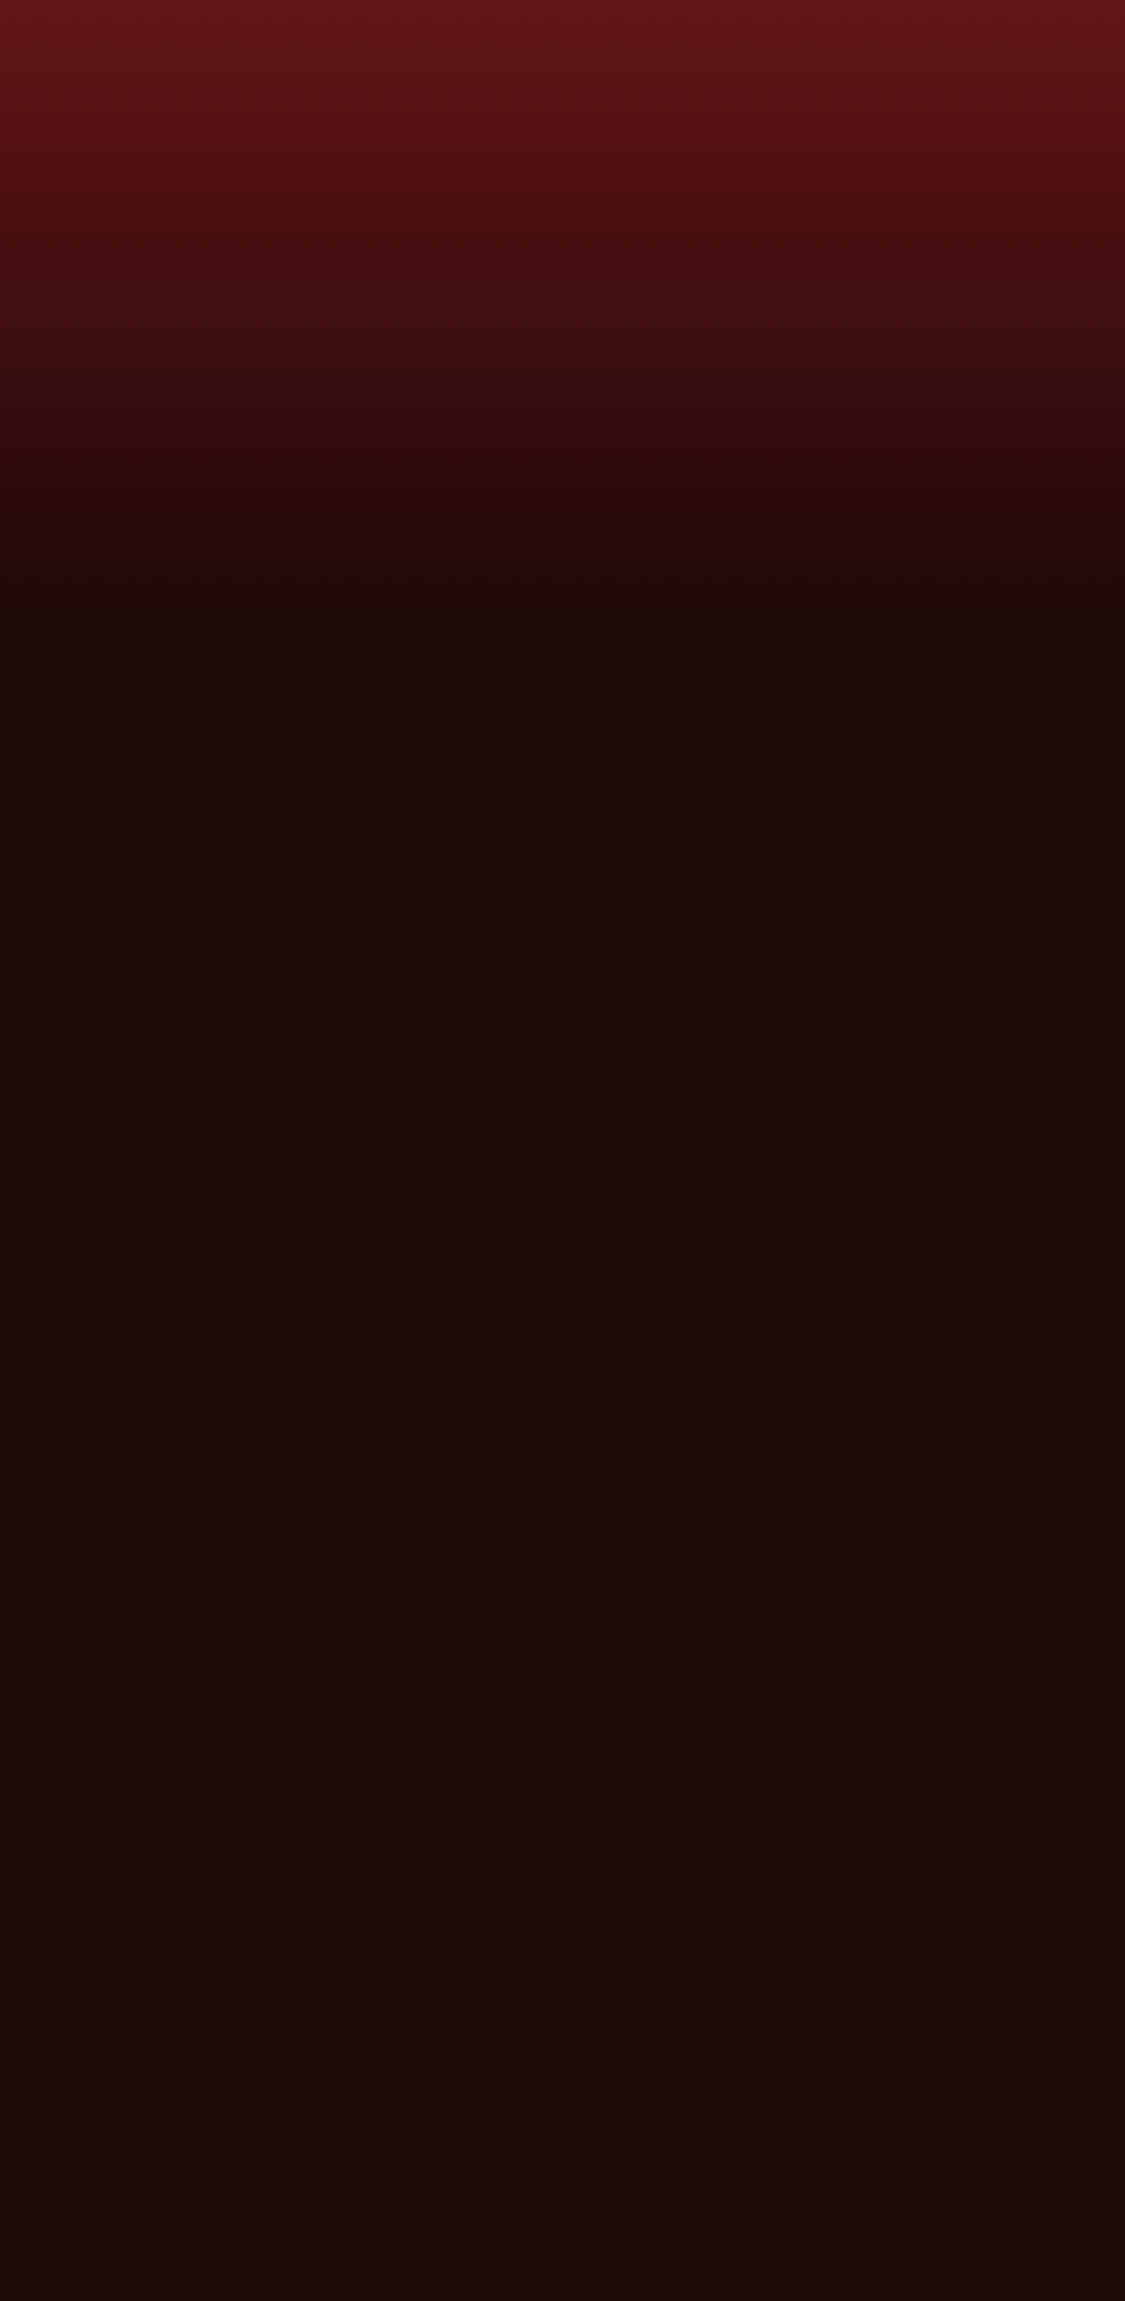
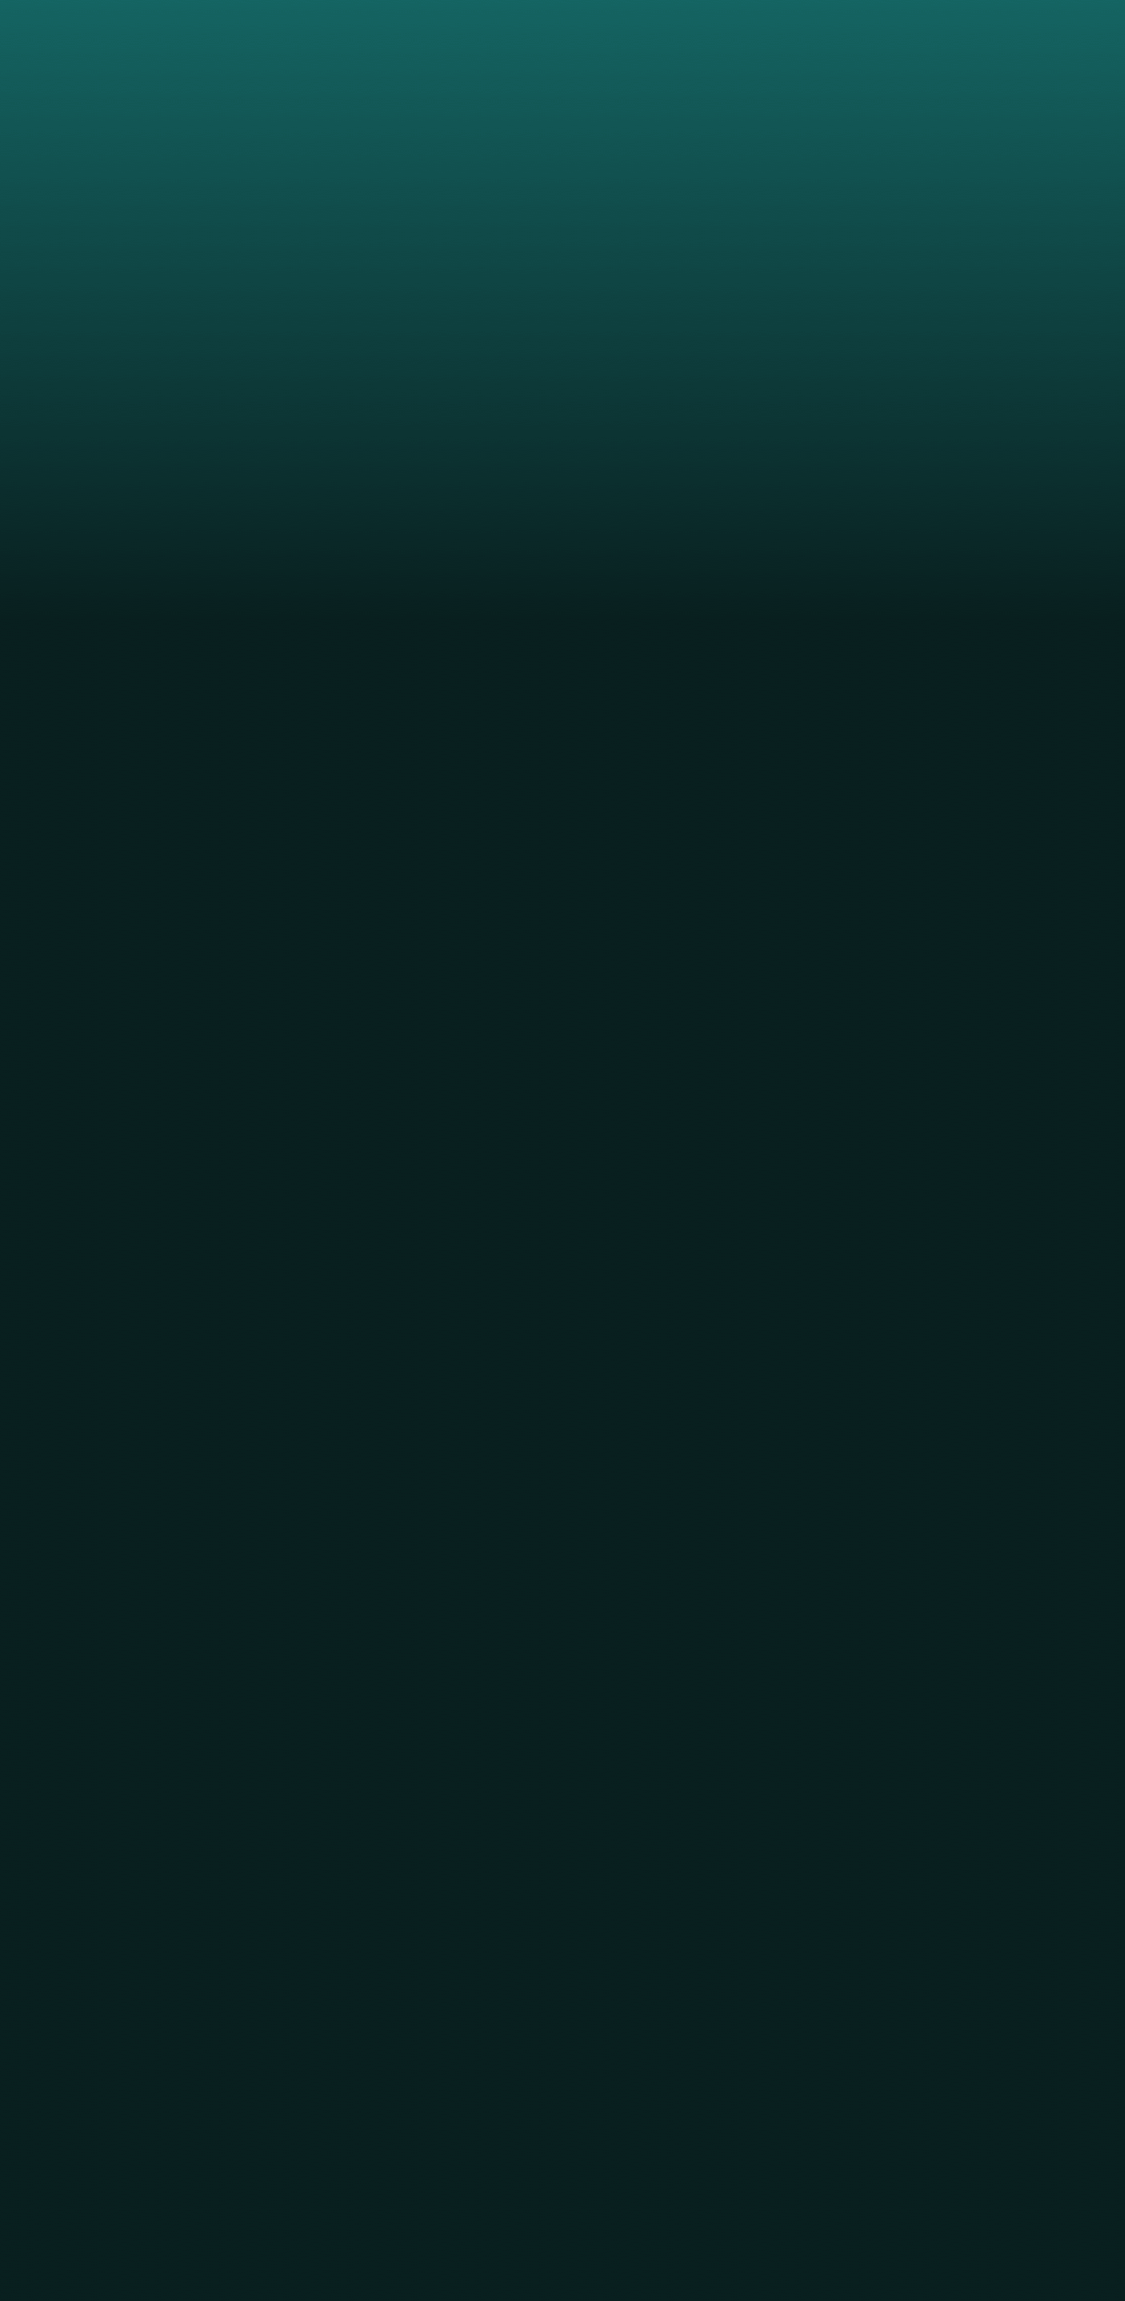
Modificados algumas coisas da UI e para build release

Changed region(s): [[0.0, 0.0, 1.0, 0.2777]]

diff --git a/Hackathon/App/Navigation/NavigationRouter.js b/Hackathon/App/Navigation/NavigationRouter.js
@@ -39,7 +39,7 @@ class NavigationRouter extends Component {
           <Scene key='drawerChildrenWrapper' navigationBarStyle={Styles.navBar} titleStyle={Styles.title} leftButtonIconStyle={Styles.leftButton} rightButtonTextStyle={Styles.rightButton}>
 
 
-            <Scene initial key='telaPrincipal' component={TelaPrincipal} title='Ignite' renderLeftButton={NavItems.hamburgerButton} />
+            <Scene initial key='telaPrincipal' component={TelaPrincipal} title='Hackhaton ANS 2016' renderLeftButton={NavItems.hamburgerButton} />
             <Scene key='prazosProcedimentos' component={PrazosProcedimentos} title='Prazos de Procedimentos' />
             <Scene key='buscaPrazosProcedimentos' component={BuscaPrazosProcedimentos} title='Busca Prazos de Procedimentos' navBar={CustomNavBar} />
             <Scene key='prazoDetalhado' component={PrazoDetalhado} title='Prazo Detalhado'  />

diff --git a/Hackathon/App/Containers/TelaPrincipal.js b/Hackathon/App/Containers/TelaPrincipal.js
@@ -24,7 +24,7 @@ class TelaPrincipal extends React.Component {
         <Image source={Images.background} style={styles.backgroundImage} resizeMode='stretch' />
         <ScrollView style={styles.container}>
           <View style={styles.centered}>
-            <Image source={Images.clearLogo} style={styles.logo} />
+            <Image source={Images.logo} style={styles.logo} />
           </View>
 
           <View style={styles.section} >

diff --git a/Hackathon/App/Themes/Images.js b/Hackathon/App/Themes/Images.js
@@ -7,7 +7,7 @@ const images = {
   clearLogo2: require('../Images/logoCompleto.gif'),
   ignite: require('../Images/ignite_logo.png'),
   tileBg: require('../Images/tile_bg.png'),
-  background: require('../Images/BG.png'),
+  background: require('../Images/BG2.png'),
   background2: require('../Images/BG.png'),
 
 }

diff --git a/Hackathon/App/Containers/Styles/TelaPrincipalStyle.js b/Hackathon/App/Containers/Styles/TelaPrincipalStyle.js
@@ -11,8 +11,8 @@ export default StyleSheet.create({
   },
   ...ApplicationStyles.screen,
   logo: {
-    height: Metrics.images.logo,
-    width: Metrics.images.logo,
+    height: Metrics.images.logo/2,
+    width: Metrics.images.logo/2,
     resizeMode: 'contain'
   },
   centered: {
